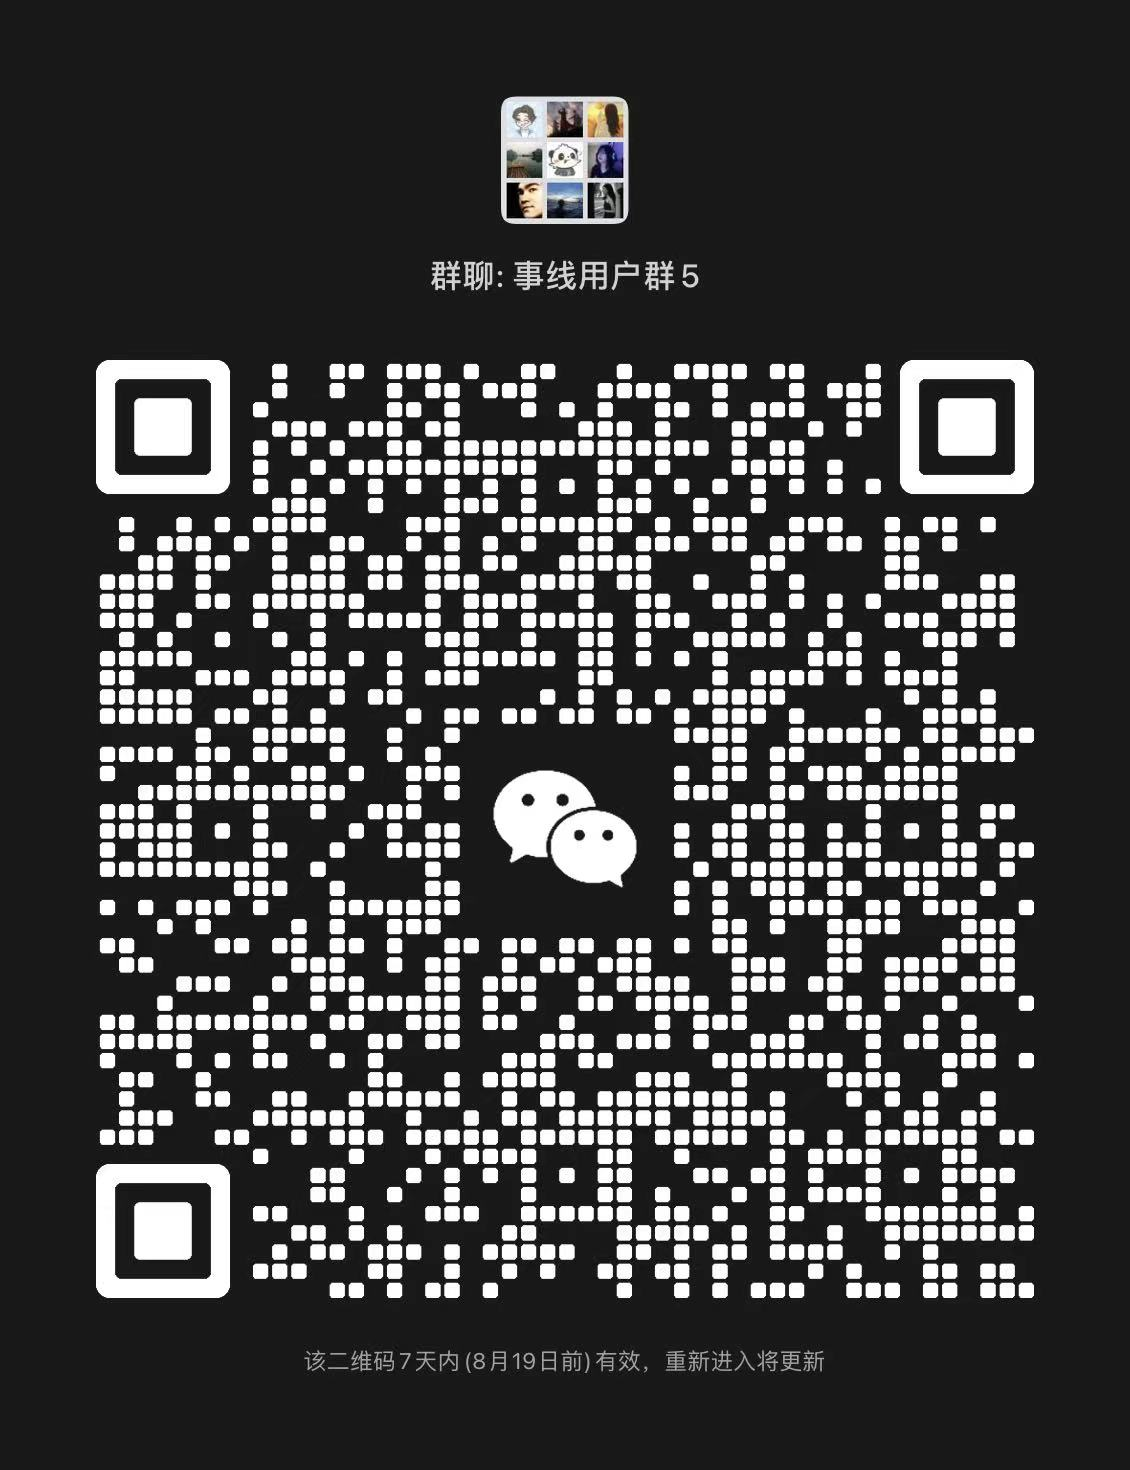
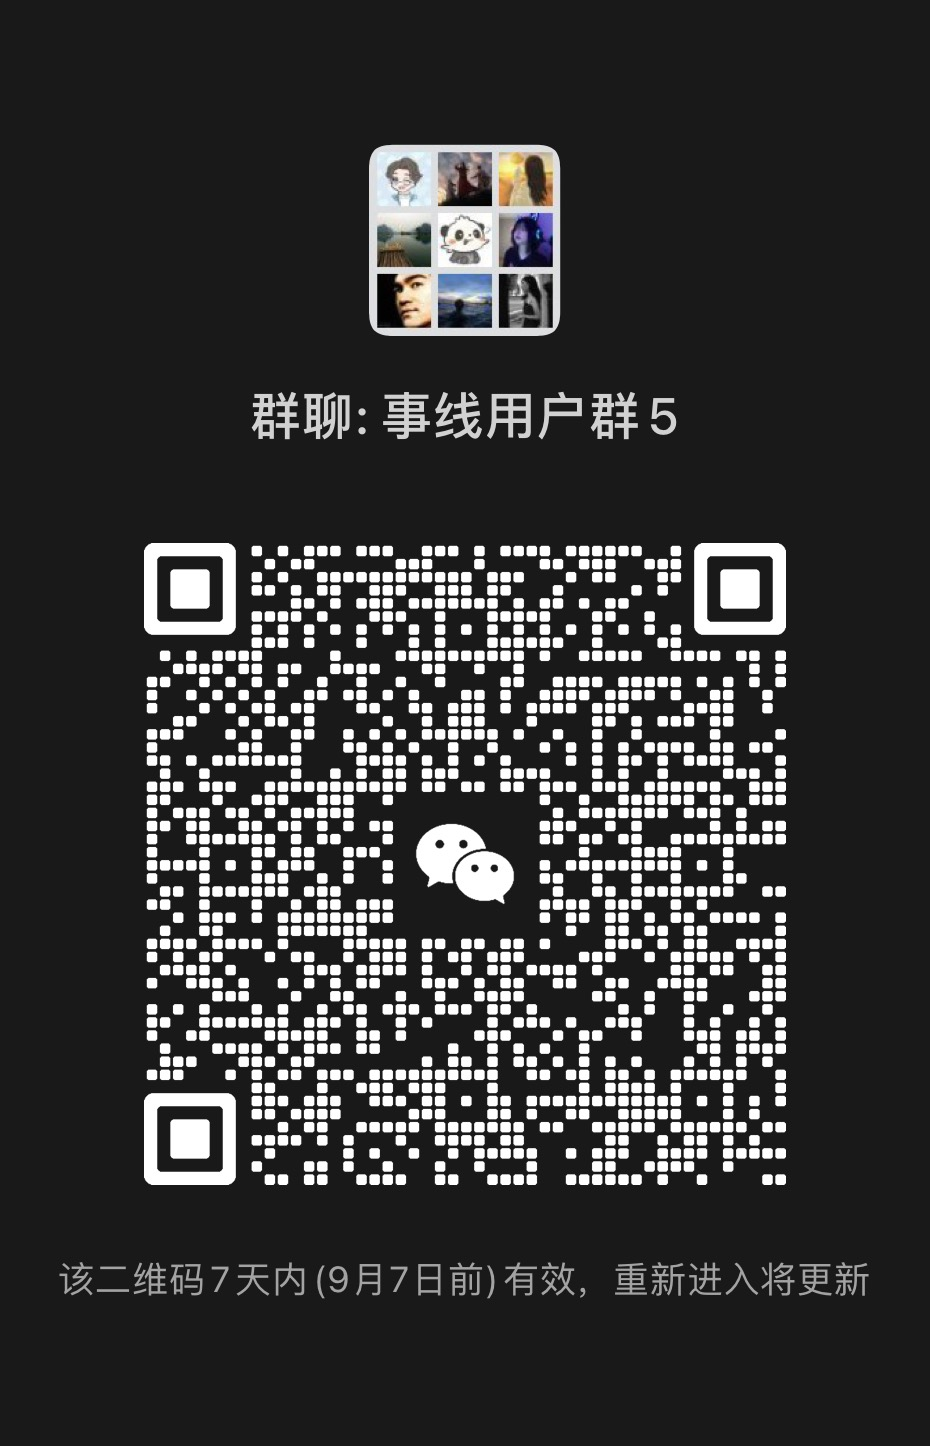
a

Changed region(s): [[0.0624, 0.0622, 0.9355, 0.9336]]

diff --git a/docs/01.pages/03.共建/002.用户群.md b/docs/01.pages/03.共建/002.用户群.md
@@ -9,7 +9,7 @@ permalink: /pages/16d8ae/
 
 <img src="/img/vx.jpg" class="no-zoom" style="width:15rem;margin: 10px;border-radius: 15px;margin: 2rem 0;box-shadow: 0 0px 20px rgb(0 0 0 / 20%);">
 
-#### （8月19日失效）
+#### （9月7日失效）
 
 
 :::
